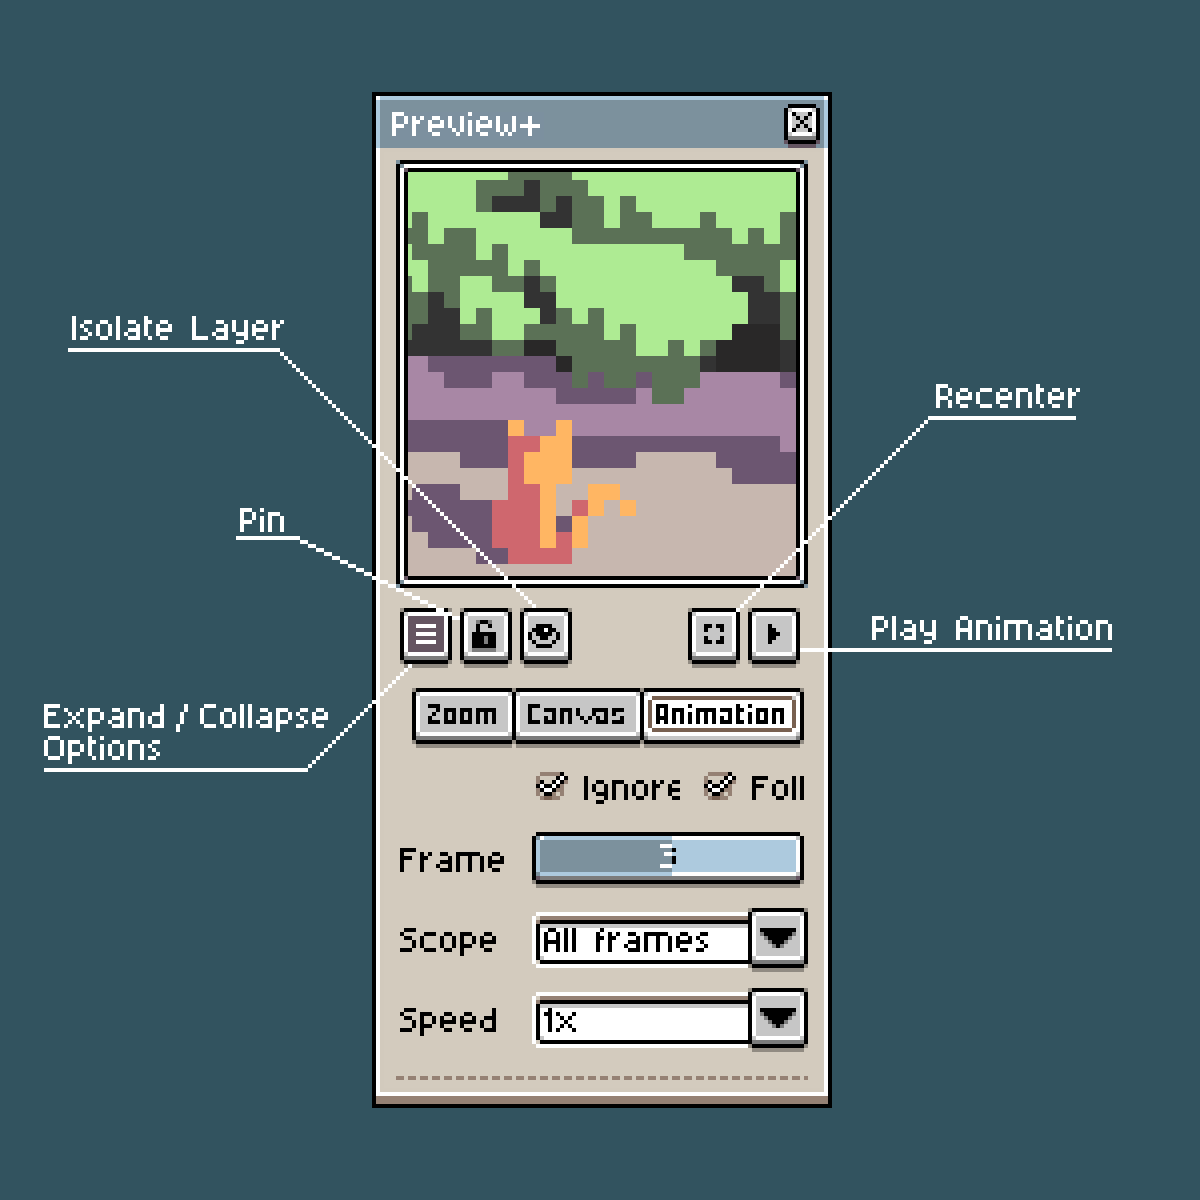
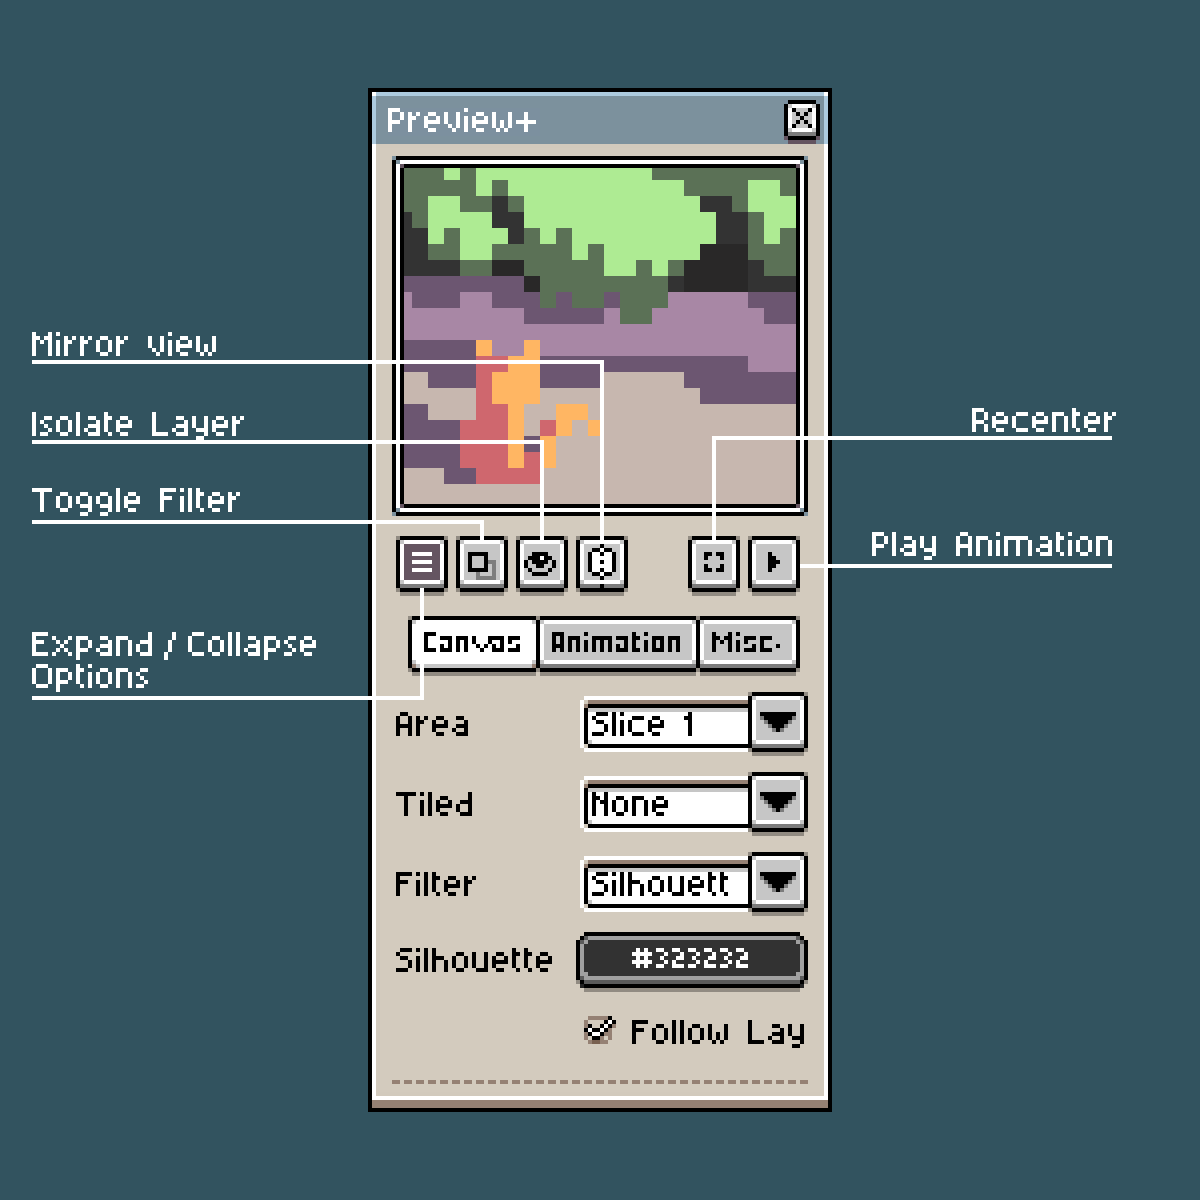
updated readme

Changed region(s): [[0.0308, 0.0617, 0.7092, 0.925], [0.7092, 0.4317, 0.925, 0.555], [0.7092, 0.3083, 0.925, 0.37]]

diff --git a/README.md b/README.md
@@ -4,6 +4,7 @@
 
 <h1 align="center">Preview Plus for Aseprite</h1>
 
+
 <p align="center">An <a href="https://aseprite.org/">Aseprite</a> plugin that adds a preview window with extra functionality</p>
 
 <p align="center">
@@ -34,7 +35,31 @@ width=500
 alt="Isolate Example">
 </p>
 
-* **Pin** - Pin to see the preview window for a sprite no matter what tab you are on
+* **Filters** - Set the type in the dropdown and toggle with the filter button
+  * **Grayscale** - Preview just the grayscale values
+
+  <p align="center">
+  <img src="docs/example7.png"
+  width=400 
+  alt="Grayscale example">
+  </p>
+
+  * **Silhouette** - Show the silhouette of the selected layer or group of layers. You can also change the color it uses
+
+  <p align="center">
+  <img src="docs/example6.png"
+  width=400 
+  alt="Silhouette example">
+  </p>
+
+* **Follow Layer** - Choose to display a different layer or group than the editor. Useful for working while showing a clean view without guidelines or viewing overall silhouette
+
+<p align="center">
+<img src="docs/example5.png"
+width=500 
+alt="Playback example">
+</p>
+
 * **Animation Playback** - By default, the window behaves just like the Aseprite version
   * **Frame Slider** - Show a different frame that what is selected in editor
   * **Scope tag** - Set a scope tag for just the portion of animation you want to play
@@ -44,6 +69,8 @@ alt="Isolate Example">
 width=500 
 alt="Playback example">
 </p>
+
+* **Pin** - Pin to see the preview window for a sprite no matter what tab you are on
 
 
 ## Usage
